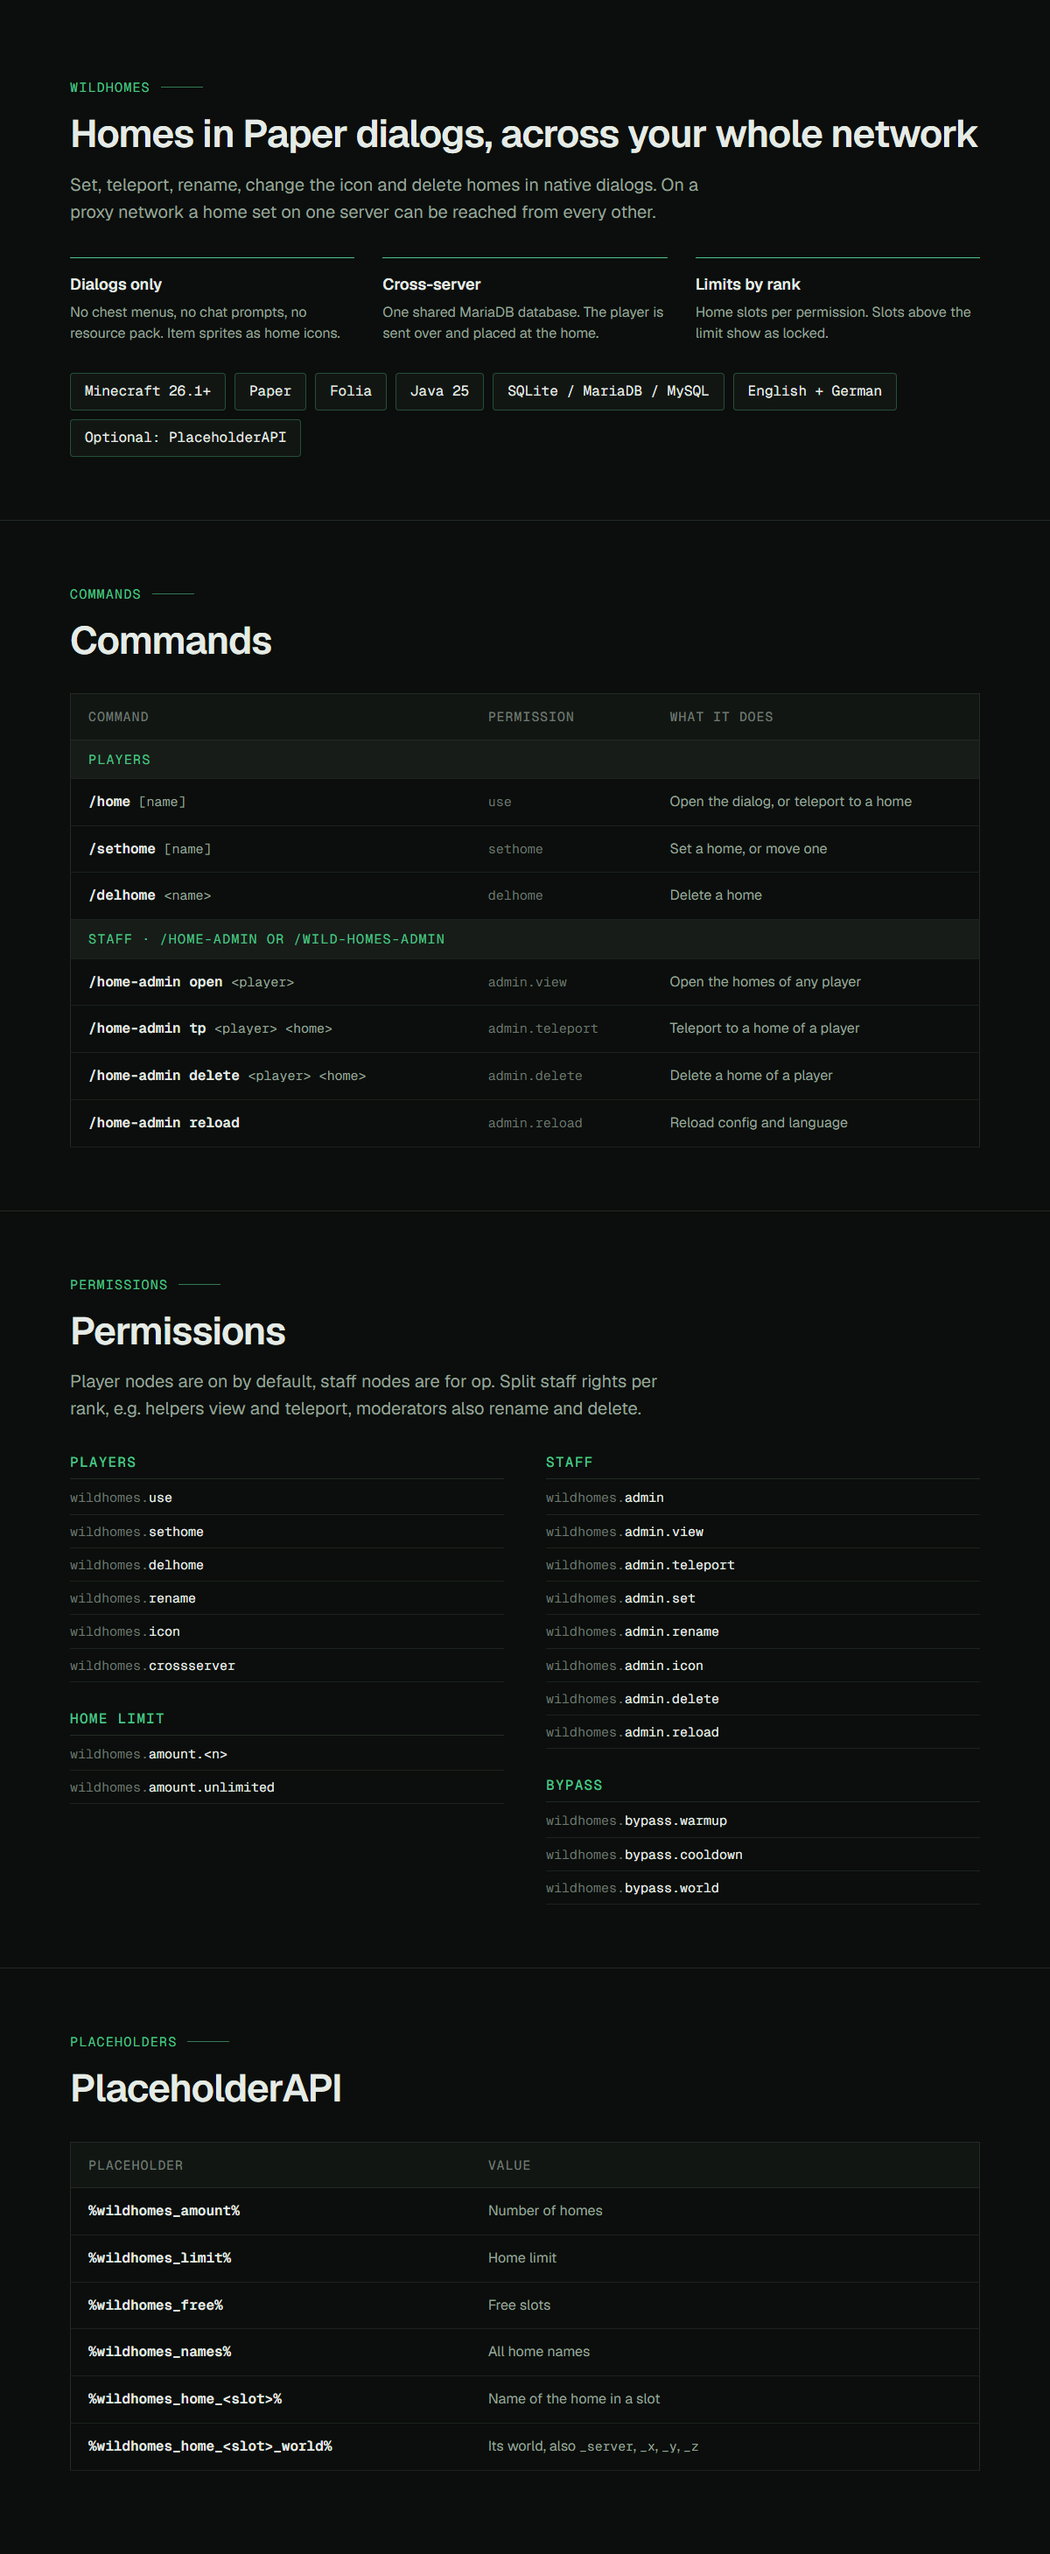
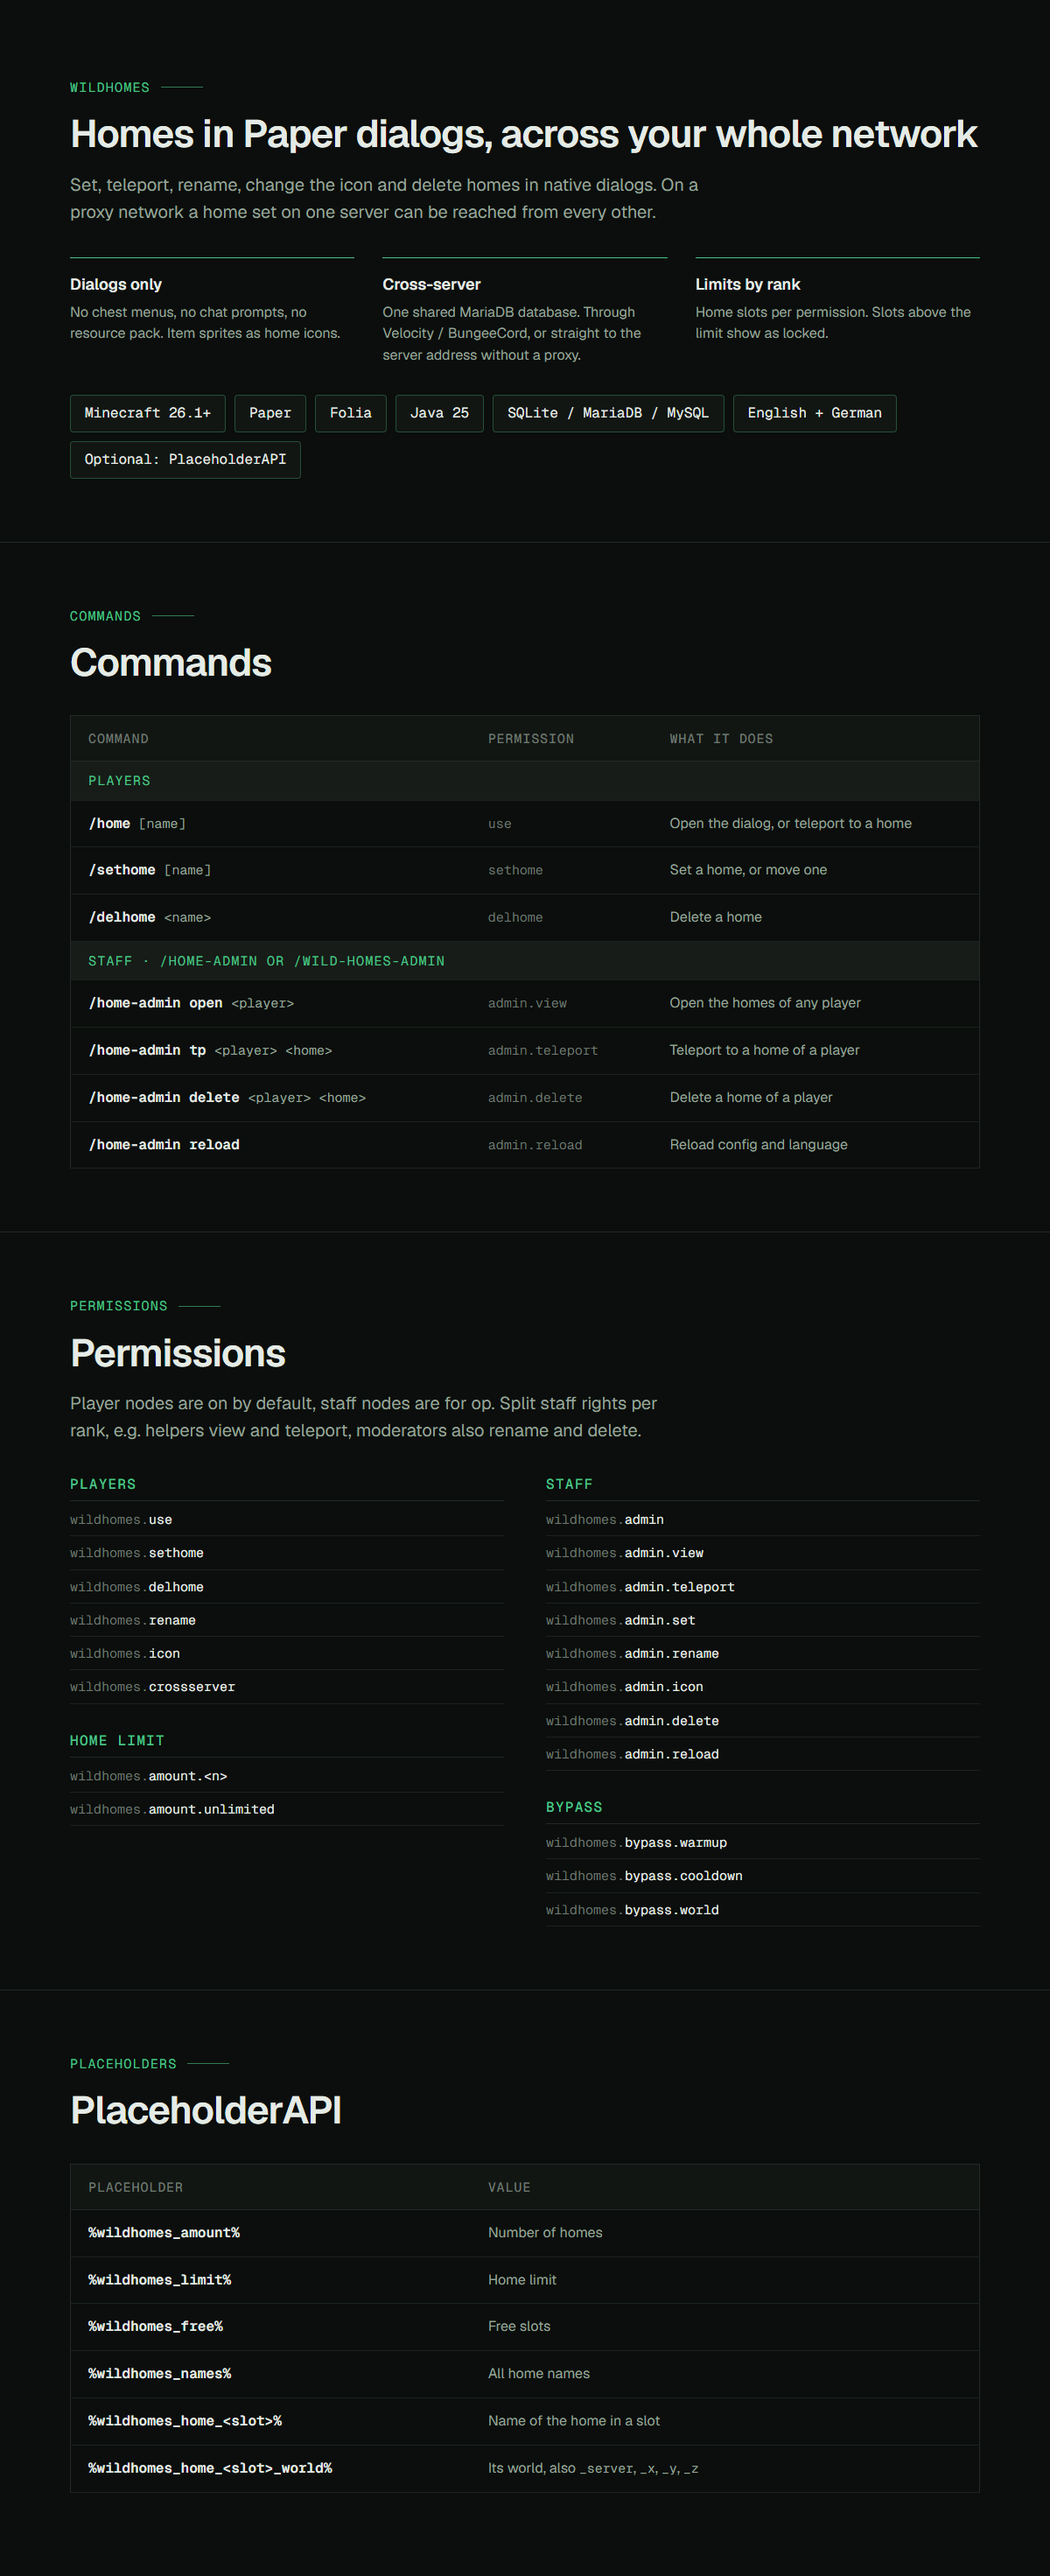
Pool and SQLite options in database.yml, TRANSFER cross-server method with server address
- database.yml: pool size, idle, timeouts, lifetime, keepalive, leak detection; SQLite journal mode and busy timeout; JDBC parameters shown with their defaults
- cross-server.method: PROXY (Velocity/BungeeCord) or TRANSFER (send to the other server's cross-server.server-address, no proxy)

diff --git a/store/banner.html b/store/banner.html
@@ -301,7 +301,7 @@ table.ref td.p{font-family:var(--mono);font-size:15px;color:var(--dim);width:20%
   </div>
   <div class="eco-notes" style="margin-top:0">
     <div><b>Dialogs only</b>No chest menus, no chat prompts, no resource pack. Item sprites as home icons.</div>
-    <div><b>Cross-server</b>One shared MariaDB database. The player is sent over and placed at the home.</div>
+    <div><b>Cross-server</b>One shared MariaDB database. Through Velocity / BungeeCord, or straight to the server address without a proxy.</div>
     <div><b>Limits by rank</b>Home slots per permission. Slots above the limit show as locked.</div>
   </div>
   <div class="facts"><span>Minecraft 26.1+</span><span>Paper</span><span>Folia</span><span>Java 25</span><span>SQLite / MariaDB / MySQL</span><span>English + German</span><span>Optional: PlaceholderAPI</span></div>

diff --git a/src/main/java/de/justgino/plugins/wildhomes/network/Network.java b/src/main/java/de/justgino/plugins/wildhomes/network/Network.java
@@ -2,6 +2,7 @@ package de.justgino.plugins.wildhomes.network;
 
 import com.destroystokyo.paper.event.player.PlayerConnectionCloseEvent;
 import de.justgino.plugins.wildhomes.WildHomes;
+import de.justgino.plugins.wildhomes.config.Settings;
 import de.justgino.plugins.wildhomes.home.Home;
 import de.justgino.plugins.wildhomes.storage.Database;
 import io.papermc.paper.event.player.AsyncPlayerSpawnLocationEvent;
@@ -39,6 +40,7 @@ public final class Network implements Listener, PluginMessageListener {
     private final Map<UUID, Arrival> arrivals = new ConcurrentHashMap<>();
     private final AtomicBoolean checked = new AtomicBoolean();
     private boolean enabled;
+    private Settings.Method method = Settings.Method.PROXY;
 
     public Network(WildHomes plugin) {
         this.plugin = plugin;
@@ -46,14 +48,33 @@ public final class Network implements Listener, PluginMessageListener {
 
     public void start() {
         enabled = plugin.settings().crossServer;
+        method = plugin.settings().crossServerMethod;
         if (enabled && !plugin.database().isMariaDb()) {
             plugin.getLogger().warning("cross-server needs type: mariadb in database.yml - cross-server stays off.");
             enabled = false;
         }
         if (!enabled) return;
-        Bukkit.getMessenger().registerOutgoingPluginChannel(plugin, CHANNEL);
-        Bukkit.getMessenger().registerIncomingPluginChannel(plugin, CHANNEL, this);
-        plugin.getLogger().info("Cross-server is on, this server is '" + plugin.settings().serverName + "'.");
+        if (method == Settings.Method.TRANSFER) {
+            String address = plugin.settings().serverAddress;
+            if (address.isEmpty()) {
+                plugin.getLogger().warning("cross-server.method is TRANSFER but cross-server.server-address is empty - players cannot be sent to this server.");
+            } else {
+                plugin.tasks().async(() -> {
+                    try {
+                        plugin.database().saveServer(plugin.settings().serverName, address);
+                    } catch (Exception e) {
+                        plugin.getLogger().warning("Could not save the server address: " + e.getMessage());
+                    }
+                });
+            }
+            if (!Bukkit.getServer().isAcceptingTransfers()) {
+                plugin.getLogger().warning("accepts-transfers is false in server.properties - players sent here by TRANSFER will be kicked.");
+            }
+        } else {
+            Bukkit.getMessenger().registerOutgoingPluginChannel(plugin, CHANNEL);
+            Bukkit.getMessenger().registerIncomingPluginChannel(plugin, CHANNEL, this);
+        }
+        plugin.getLogger().info("Cross-server is on (" + method + "), this server is '" + plugin.settings().serverName + "'.");
     }
 
     public void stop() {
@@ -74,16 +95,37 @@ public final class Network implements Listener, PluginMessageListener {
         long created = System.currentTimeMillis();
         Database.Pending pending = new Database.Pending(uuid, home.server(), home.name(), home.world(),
                 home.x(), home.y(), home.z(), home.yaw(), home.pitch(), created);
+        boolean transfer = method == Settings.Method.TRANSFER;
         plugin.tasks().supply(() -> {
+            String address = transfer ? plugin.database().serverAddress(home.server()) : "";
+            if (address == null) return null;
             plugin.database().savePending(pending);
-            return true;
-        }).whenComplete((ok, error) -> plugin.tasks().entity(player, () -> {
+            return address;
+        }).whenComplete((address, error) -> plugin.tasks().entity(player, () -> {
             if (error != null) {
                 plugin.lang().send(player, "messages.error");
                 return;
             }
+            if (address == null) {
+                plugin.lang().send(player, "teleport.switch-failed", "server", home.server());
+                return;
+            }
             plugin.lang().send(player, "teleport.switching", "server", home.server());
-            player.sendPluginMessage(plugin, CHANNEL, message("Connect", home.server()));
+            if (transfer) {
+                String host = address;
+                int port = 25565;
+                int colon = address.lastIndexOf(':');
+                if (colon > 0 && address.indexOf(']') < colon) {
+                    host = address.substring(0, colon);
+                    try {
+                        port = Integer.parseInt(address.substring(colon + 1).trim());
+                    } catch (NumberFormatException ignored) {
+                    }
+                }
+                player.transfer(host.replace("[", "").replace("]", ""), port);
+            } else {
+                player.sendPluginMessage(plugin, CHANNEL, message("Connect", home.server()));
+            }
             plugin.tasks().entityLater(player, () -> plugin.tasks().supply(() -> plugin.database().deletePending(uuid, created))
                     .thenAccept(stillThere -> {
                         if (stillThere) plugin.tasks().entity(player, () -> plugin.lang().send(player, "teleport.switch-failed", "server", home.server()));
@@ -122,7 +164,7 @@ public final class Network implements Listener, PluginMessageListener {
     @EventHandler(priority = EventPriority.MONITOR)
     public void onJoin(PlayerJoinEvent event) {
         Player player = event.getPlayer();
-        if (enabled && checked.compareAndSet(false, true)) {
+        if (enabled && method == Settings.Method.PROXY && checked.compareAndSet(false, true)) {
             plugin.tasks().entityLater(player, () -> player.sendPluginMessage(plugin, CHANNEL, message("GetServer", null)), 20L);
         }
         Arrival arrival = arrivals.remove(player.getUniqueId());

diff --git a/src/main/java/de/justgino/plugins/wildhomes/storage/Database.java b/src/main/java/de/justgino/plugins/wildhomes/storage/Database.java
@@ -36,6 +36,7 @@ public final class Database {
     private String homes;
     private String players;
     private String pending;
+    private String servers;
 
     public Database(WildHomes plugin) {
         this.plugin = plugin;
@@ -54,6 +55,7 @@ public final class Database {
         homes = prefix + "homes";
         players = prefix + "players";
         pending = prefix + "pending";
+        servers = prefix + "servers";
 
         try {
             Configurator.setLevel("de.justgino.plugins.wildhomes.libs.hikari", Level.WARN);
@@ -61,7 +63,7 @@ public final class Database {
         }
         HikariConfig hikari = new HikariConfig();
         hikari.setPoolName("WildHomes");
-        hikari.setConnectionTimeout(10_000);
+        hikari.setConnectionTimeout(Math.max(1_000L, cfg.getLong("pool.connection-timeout", 10_000L)));
         if (mariadb) {
             ConfigurationSection db = cfg.getConfigurationSection("mariadb");
             if (db == null) db = cfg.createSection("mariadb");
@@ -78,13 +80,22 @@ public final class Database {
                     + "/" + db.getString("database", "wildhomes") + "?" + query);
             hikari.setUsername(db.getString("username", "root"));
             hikari.setPassword(db.getString("password", ""));
-            hikari.setMaximumPoolSize(Math.max(1, db.getInt("pool-size", 4)));
-            hikari.setMinimumIdle(1);
-            hikari.setMaxLifetime(600_000);
+            int size = Math.max(1, cfg.getInt("pool.maximum-size", db.getInt("pool-size", 4)));
+            hikari.setMaximumPoolSize(size);
+            hikari.setMinimumIdle(Math.max(0, Math.min(size, cfg.getInt("pool.minimum-idle", 1))));
+            long idle = cfg.getLong("pool.idle-timeout", 60_000L);
+            hikari.setIdleTimeout(idle <= 0 ? 0 : Math.max(10_000L, idle));
+            hikari.setMaxLifetime(Math.max(30_000L, cfg.getLong("pool.max-lifetime", 600_000L)));
+            long keepalive = cfg.getLong("pool.keepalive-time", 0L);
+            hikari.setKeepaliveTime(keepalive <= 0 ? 0 : Math.max(30_000L, Math.min(keepalive, hikari.getMaxLifetime() - 1_000L)));
+            long leak = cfg.getLong("pool.leak-detection", 0L);
+            hikari.setLeakDetectionThreshold(leak <= 0 ? 0 : Math.max(2_000L, leak));
         } else {
             File db = new File(plugin.getDataFolder(), cfg.getString("sqlite.file", "homes.db"));
+            String journal = cfg.getString("sqlite.journal-mode", "WAL").replaceAll("[^A-Za-z]", "").toUpperCase(Locale.ROOT);
+            long busy = Math.max(0L, cfg.getLong("sqlite.busy-timeout", 5_000L));
             hikari.setDriverClassName("org.sqlite.JDBC");
-            hikari.setJdbcUrl("jdbc:sqlite:" + db.getAbsolutePath() + "?journal_mode=WAL&synchronous=NORMAL&busy_timeout=5000");
+            hikari.setJdbcUrl("jdbc:sqlite:" + db.getAbsolutePath() + "?journal_mode=" + journal + "&synchronous=NORMAL&busy_timeout=" + busy);
             hikari.setMaximumPoolSize(1);
         }
         source = new HikariDataSource(hikari);
@@ -106,6 +117,28 @@ public final class Database {
                     + "player VARCHAR(36) NOT NULL PRIMARY KEY, server VARCHAR(64) NOT NULL, home VARCHAR(64) NOT NULL, "
                     + "world VARCHAR(128) NOT NULL, x DOUBLE NOT NULL, y DOUBLE NOT NULL, z DOUBLE NOT NULL, "
                     + "yaw FLOAT NOT NULL, pitch FLOAT NOT NULL, created BIGINT NOT NULL)" + options);
+            s.executeUpdate("CREATE TABLE IF NOT EXISTS " + servers + " ("
+                    + "name VARCHAR(64) NOT NULL PRIMARY KEY, address VARCHAR(255) NOT NULL, updated BIGINT NOT NULL)" + options);
+        }
+    }
+
+    public void saveServer(String name, String address) throws SQLException {
+        try (Connection c = source.getConnection();
+             PreparedStatement ps = c.prepareStatement("REPLACE INTO " + servers + " (name, address, updated) VALUES (?, ?, ?)")) {
+            ps.setString(1, name.toLowerCase(Locale.ROOT));
+            ps.setString(2, address);
+            ps.setLong(3, System.currentTimeMillis());
+            ps.executeUpdate();
+        }
+    }
+
+    public @Nullable String serverAddress(String name) throws SQLException {
+        try (Connection c = source.getConnection();
+             PreparedStatement ps = c.prepareStatement("SELECT address FROM " + servers + " WHERE name = ?")) {
+            ps.setString(1, name.toLowerCase(Locale.ROOT));
+            try (ResultSet rs = ps.executeQuery()) {
+                return rs.next() ? rs.getString("address") : null;
+            }
         }
     }
 

diff --git a/src/main/java/de/justgino/plugins/wildhomes/config/Settings.java b/src/main/java/de/justgino/plugins/wildhomes/config/Settings.java
@@ -22,10 +22,14 @@ public final class Settings {
 
     public enum ClickAction { MANAGE, TELEPORT }
 
+    public enum Method { PROXY, TRANSFER }
+
     public final String language;
     public final String serverName;
     public final boolean crossServer;
     public final int connectTimeout;
+    public final Method crossServerMethod;
+    public final String serverAddress;
 
     public final int defaultAmount;
     public final int maxSlots;
@@ -72,6 +76,8 @@ public final class Settings {
         serverName = c.getString("server-name", "survival").trim();
         crossServer = c.getBoolean("cross-server.enabled");
         connectTimeout = Math.max(3, c.getInt("cross-server.connect-timeout", 15));
+        crossServerMethod = enumValue(Method.class, c.getString("cross-server.method"), Method.PROXY);
+        serverAddress = c.getString("cross-server.server-address", "").trim();
 
         defaultAmount = Math.max(0, c.getInt("homes.default-amount", 1));
         maxSlots = clamp(c.getInt("homes.max-slots", 28), 1, 200);

diff --git a/README.md b/README.md
@@ -72,11 +72,14 @@ Switch the language with `language: german` and `/home-admin reload`. For anothe
 
 ## Cross-server
 
-1. Every server uses the same MariaDB database (`database.yml` -> `type: mariadb`, same `table-prefix`).
-2. `config.yml` -> `cross-server.enabled: true` and `server-name` set to the name of the server in the proxy config.
-3. Velocity: `bungee-plugin-message-channel = true` (the default).
+Every server uses the same MariaDB database (`database.yml` -> `type: mariadb`, same `table-prefix`), and `config.yml` -> `cross-server.enabled: true` with a unique `server-name`. Then pick a `method`:
 
-A home on another server is teleported to by switching the player through the proxy; the target server places them at the home when they join. No plugin on the proxy is needed.
+| Method | How the player gets there | Needs |
+|---|---|---|
+| `PROXY` | Switched through Velocity / BungeeCord | `server-name` = the name in `velocity.toml`, `bungee-plugin-message-channel = true` (default) |
+| `TRANSFER` | Sent straight to the other server's `server-address` (e.g. `play.example.net:25566`) | `server-address` set on every server, `accepts-transfers=true` in its `server.properties`. No proxy |
+
+The target server places the player at the home when they join. No plugin on the proxy is needed.
 
 ## Placeholders (PlaceholderAPI)
 
@@ -100,3 +103,7 @@ The jar is `target/WildHomes-<version>.jar`. `tools/SpriteMap.java` rebuilds `sp
 ## Icons and versions
 
 The icon list only contains items that exist on the server and are enabled in its world. With ViaVersion, each player only sees items their own client version knows, and homes with a newer icon show the default icon to older clients. No missing-texture icons.
+
+## Database
+
+`database.yml` holds the connection, the SQLite journal mode and busy timeout, the JDBC parameters (SSL, timeouts) and the connection pool (size, idle, lifetime, keepalive, leak detection).
